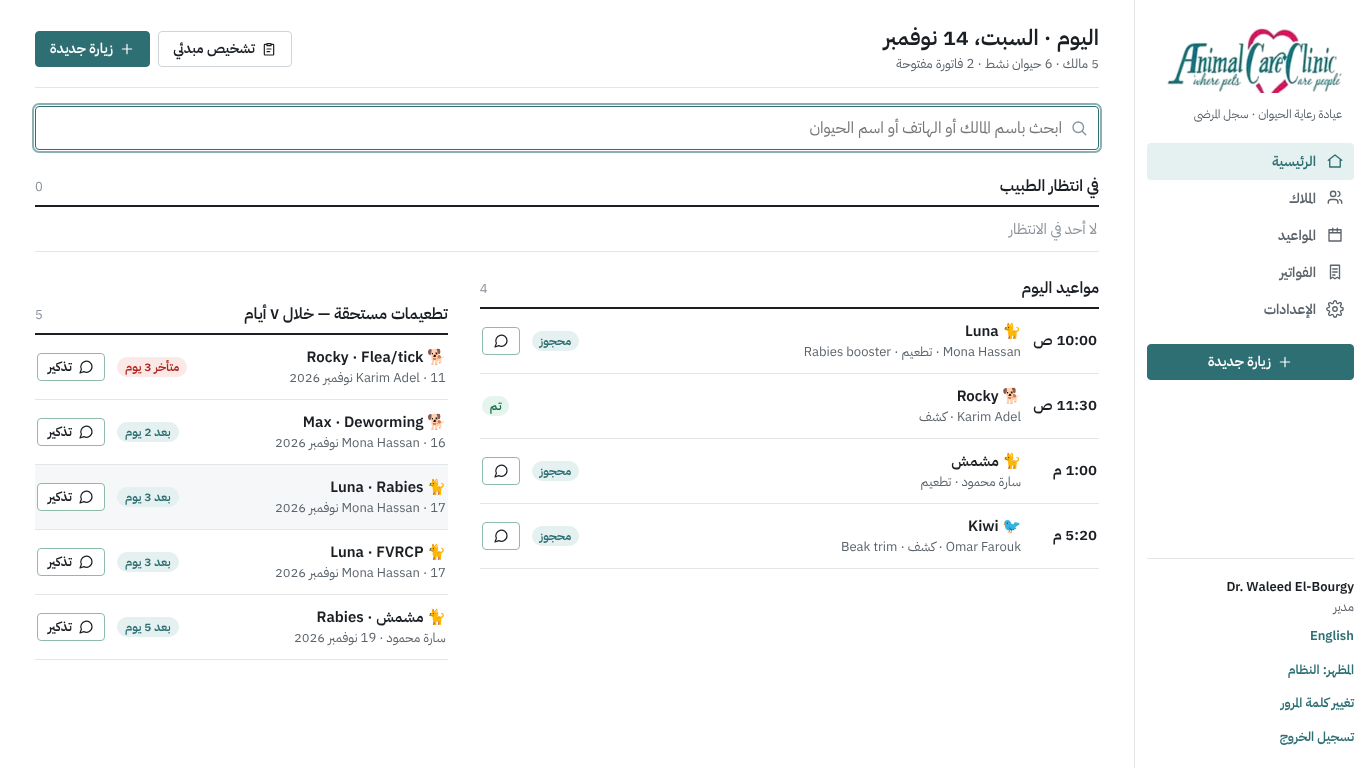
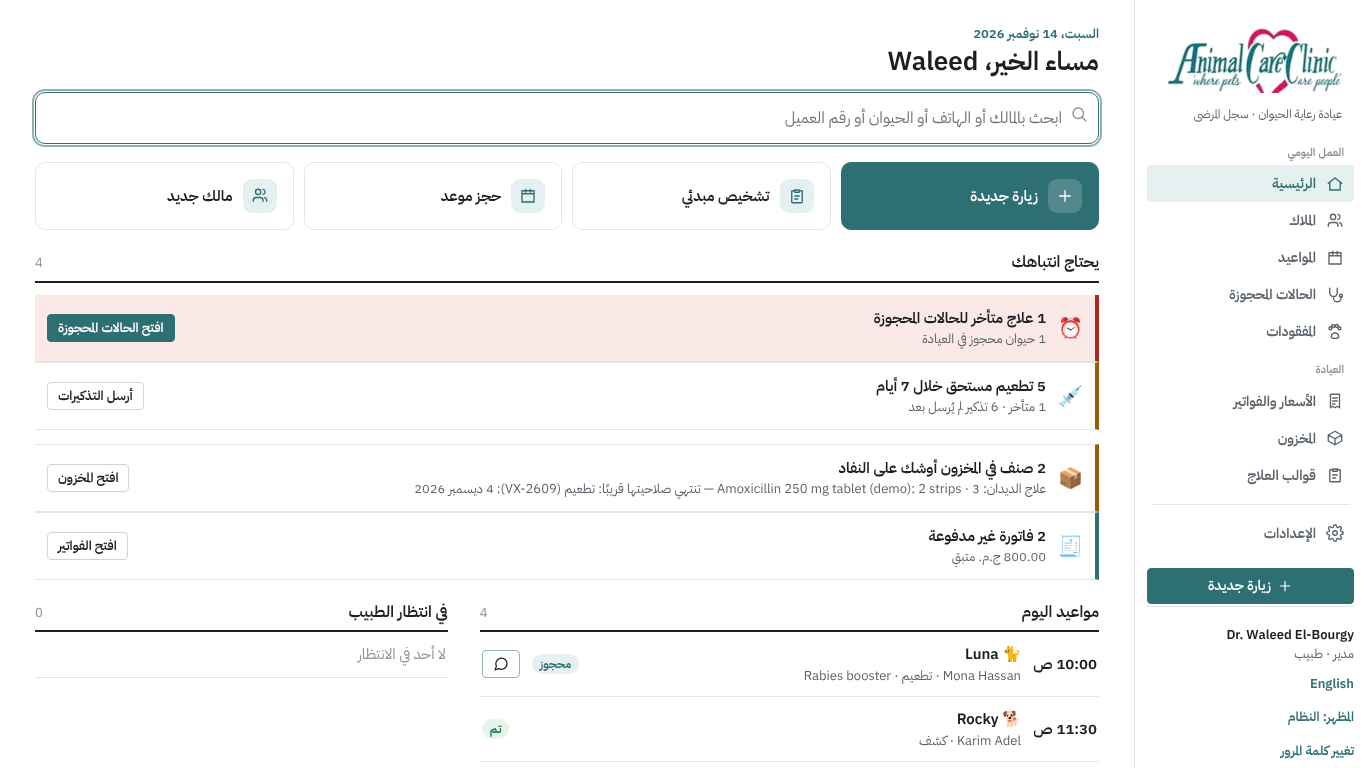
Chromebook: fit main's Settings → Updates tab and sidebar update status
After rebasing on main: This device shows in the Updates tab on the web app
(Admin) and in My settings (everyone); the sidebar update status and the
Updates tab badge also cover web deploys ("New version — reload"). Install
screenshots retaken with the new dashboard. The Chromebook test step always
closes its browser, so a failure can no longer leave the test hanging.

Claude-Session: https://claude.ai/code/session_01Ds3riUxCe7CQGZgisddqNw

diff --git a/src/components/ThisDevice.tsx b/src/components/ThisDevice.tsx
@@ -1,4 +1,4 @@
-// Settings → Data & backup → This device (web app: Chromebook, phone, browser). The web app's counterpart of
+// Settings → Updates (Admin) and My settings (everyone) → This device (web app: Chromebook, phone, browser). The web app's counterpart of
 // the desktop app's Updates section: which device this is, whether it runs as an installed app, whether the
 // browser keeps its records for good, and which version it runs (updates arrive from the clinic server).
 import { useEffect, useState } from 'react';

diff --git a/docs/CHROMEBOOK.md b/docs/CHROMEBOOK.md
@@ -34,7 +34,7 @@ works on every Chromebook (Intel or ARM, personal or school/managed), with no Li
 | | |
 |---|---|
 | Layout | The laptop layout (sidebar, wide tables) from 900 px wide; the phone layout in a narrow window or in tablet mode portrait. No orientation lock. |
-| Offline | After the first sign-in the records live on the Chromebook; it opens and works with no connection and sends the work when it is back (same as phones, `docs/CLOUD-PLAN.md` Phase 2). Asks Chrome to keep the records for good (`navigator.storage.persist()`); Settings → Data & backup → **This device** shows whether it does. |
+| Offline | After the first sign-in the records live on the Chromebook; it opens and works with no connection and sends the work when it is back (same as phones, `docs/CLOUD-PLAN.md` Phase 2). Asks Chrome to keep the records for good (`navigator.storage.persist()`); Settings → **Updates** (or **Settings** for Doctors and Assistants) shows whether it does. |
 | One window | Only one window can have the records open: a second window or tab shows "open in another window" with **Use it here**, and the first one saves and steps aside. Opening the installed app again focuses its window. Stops two copies of the database overwriting each other. |
 | Shelf shortcuts | New visit, New owner, Appointments, Invoices (manifest `shortcuts`); they open in the window already open. |
 | Keyboard | **Ctrl+K** (or **/**) jumps to search from any screen. |
@@ -57,7 +57,7 @@ What it does **not** have, compared with the Windows/Mac app: the daily local `.
 | Install banner and sidebar link, per device wording | `src/components/InstallPrompt.tsx` (`useInstall`, `installKind`) |
 | One window at a time (Web Locks + BroadcastChannel; the old window stops saving first) | `src/lib/oneWindow.ts`, `stopPersisting()` in `src/db/core.ts`, `OpenElsewhere` in `src/main.tsx` |
 | Web updates: build id baked in and written to `version.json` | `vite.config.ts` (`cloudVersion`), `src/lib/webUpdate.ts`, `UpdateBanner` in `src/components/Updates.tsx` |
-| Settings → Data & backup → This device | `src/components/ThisDevice.tsx` |
+| Settings → Updates (Admin) and My settings (everyone): This device | `src/components/ThisDevice.tsx` |
 | Service worker: manifest fetched fresh, old caches dropped (`clinic-shell-v2`) | `public-cloud/sw.js` |
 | Test | `scripts/sync-test.mjs` step **chromebook: installed app** (Chromebook user agent at 1366×768 against the real server + Postgres) |
 
